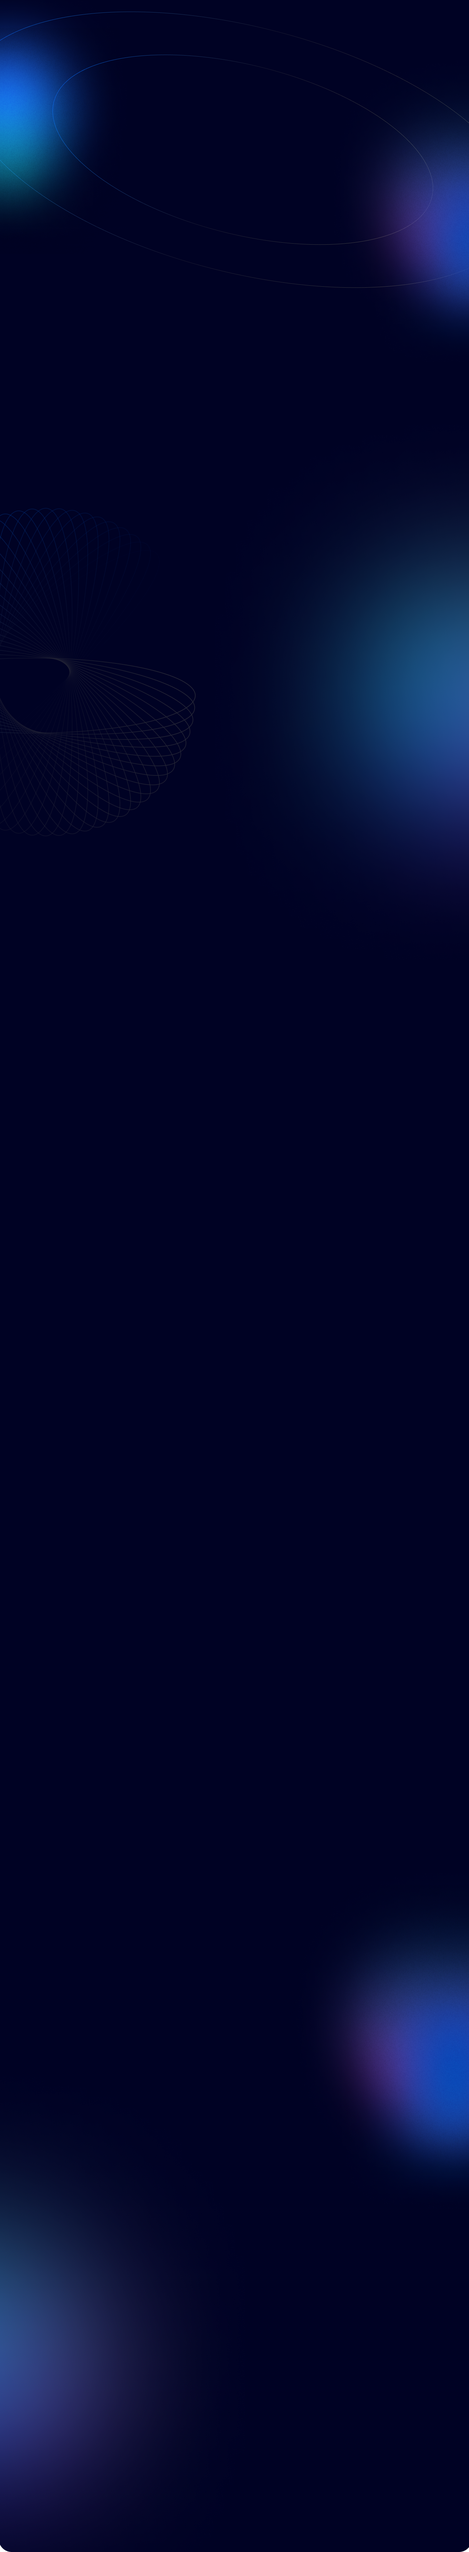
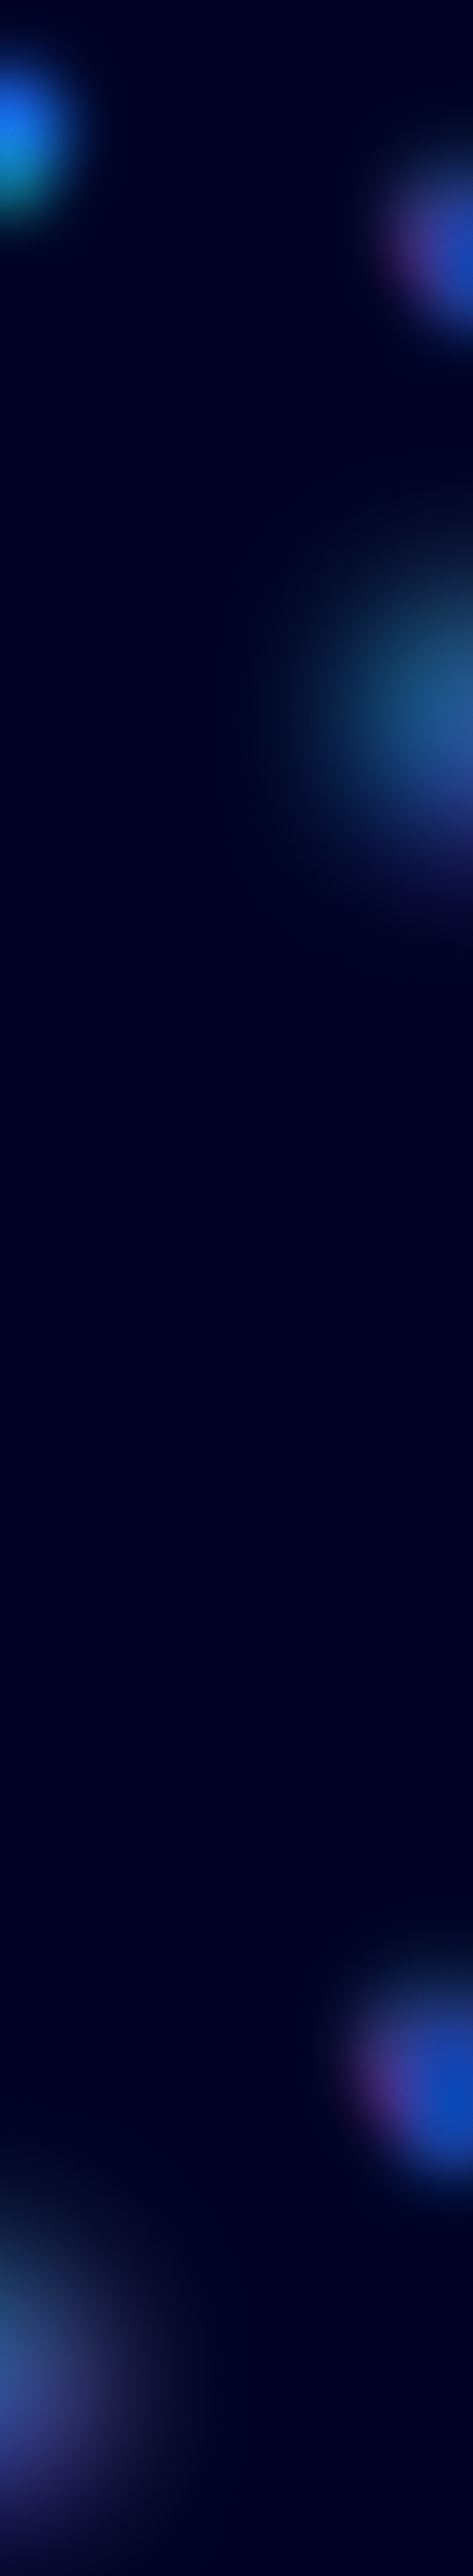
fix: type data and bg homepage

diff --git a/pages/about-us/index.page.tsx b/pages/about-us/index.page.tsx
@@ -28,6 +28,8 @@ import { Controller, Navigation } from 'swiper';
 import { Swiper, SwiperSlide, useSwiper } from 'swiper/react';
 import { AWARDS, MILESTONES } from 'utils/constant';
 import { useRouter } from 'next/router';
+import { NextSeoProps } from 'next-seo';
+import { seoConfigs } from 'next-seo.config';
 
 const AboutUs = () => {
   const [controlledSwiper, setControlledSwiper] = useState<any>(null);
@@ -292,9 +294,14 @@ const AboutUs = () => {
 export default AboutUs;
 
 AboutUs.getLayout = function getLayout(page: ReactElement) {
+  const seoProps: NextSeoProps = {
+    title: `${seoConfigs.title} - About us`,
+  };
   return (
     <>
-      <Layout className="about-us-container">{page}</Layout>
+      <Layout className="about-us-container" {...seoProps}>
+        {page}
+      </Layout>
     </>
   );
 };

diff --git a/utils/constant.ts b/utils/constant.ts
@@ -201,7 +201,10 @@ export const PRICING_PLANS: {
   },
 ];
 
-export const MILESTONES = [
+export const MILESTONES: {
+  content: string;
+  year: string;
+}[] = [
   { content: 'Company establishment in Hanoi, Vietnam.', year: '2015' },
   {
     content: 'Successfully laid the foundation of global expansion.',
@@ -234,7 +237,12 @@ export const MILESTONES = [
   },
 ];
 
-export const AWARDS = [
+export const AWARDS: {
+  image: string;
+  date: string;
+  title: string;
+  linkPage: string;
+}[] = [
   {
     image: '/images/award1.png',
     date: 'December 22, 2022',

diff --git a/styles/globals.scss b/styles/globals.scss
@@ -85,6 +85,10 @@ img {
   background-size: cover;
   width: 100%;
   font-family: 'Anderson Grotesk Light', sans-serif;
+  // @include tablet {
+  background-image: url('/images/bg-homepage-mobile.png');
+  //   background-size: 100%;
+  // }
 
   .content-container {
     min-height: 100vh;
